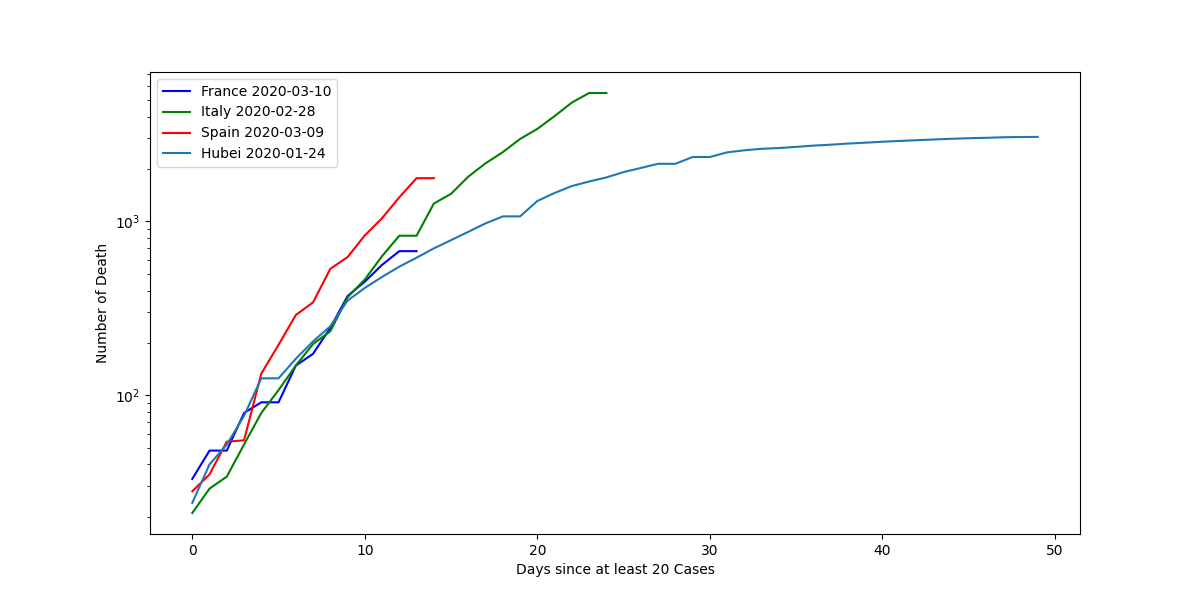
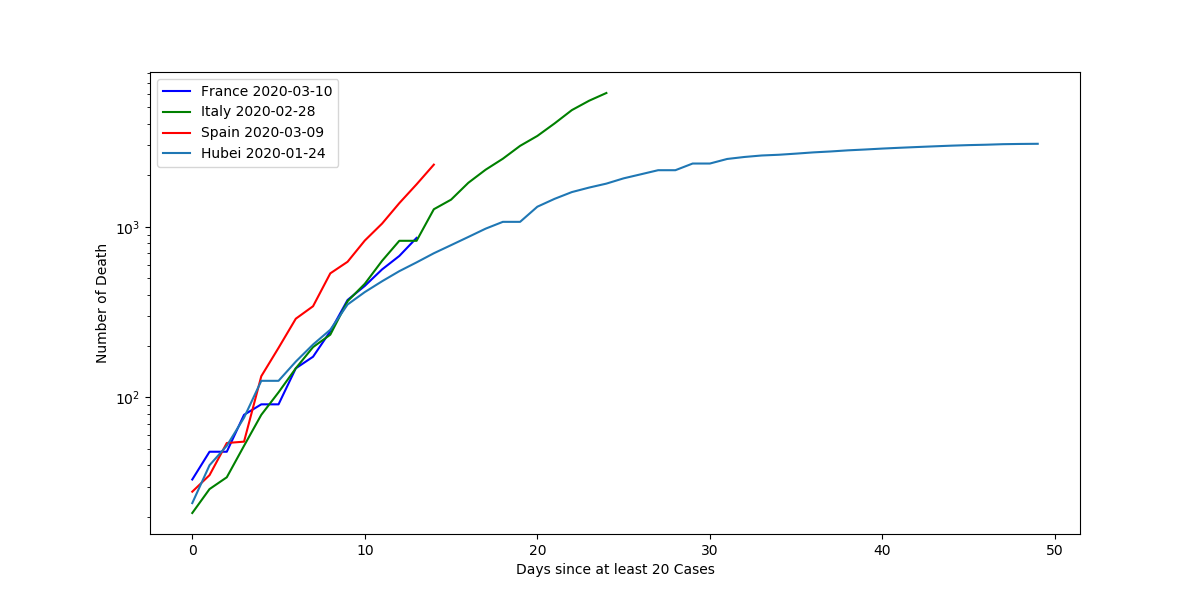
change urls, deprecated fila as today

diff --git a/coronapy.py b/coronapy.py
@@ -10,8 +10,10 @@ import numpy as np
 
 # default urls for specfic cases
 default_urls = {
-'confirmed' : 'https://github.com/CSSEGISandData/COVID-19/raw/master/csse_covid_19_data/csse_covid_19_time_series/time_series_19-covid-Confirmed.csv',
-'death' : 'https://github.com/CSSEGISandData/COVID-19/raw/master/csse_covid_19_data/csse_covid_19_time_series/time_series_19-covid-Deaths.csv',
+#'confirmed' : 'https://github.com/CSSEGISandData/COVID-19/raw/master/csse_covid_19_data/csse_covid_19_time_series/time_series_19-covid-Confirmed.csv',
+'confirmed' : 'https://github.com/CSSEGISandData/COVID-19/raw/master/csse_covid_19_data/csse_covid_19_time_series/time_series_covid19_confirmed_global.csv', 
+#'death' : 'https://github.com/CSSEGISandData/COVID-19/raw/master/csse_covid_19_data/csse_covid_19_time_series/time_series_19-covid-Deaths.csv',
+'death' : 'https://github.com/CSSEGISandData/COVID-19/raw/master/csse_covid_19_data/csse_covid_19_time_series/time_series_covid19_deaths_global.csv',
 'recovered' : 'https://github.com/CSSEGISandData/COVID-19/raw/master/csse_covid_19_data/csse_covid_19_time_series/time_series_19-covid-Recovered.csv',
 }
 

diff --git a/setup.py b/setup.py
@@ -7,7 +7,7 @@ import sys
 from setuptools import setup
 
 name = "coronapy"
-version='0.1.1' # https://www.python.org/dev/peps/pep-0440/
+version='0.1.2' # https://www.python.org/dev/peps/pep-0440/
 url = "https://github.com/SylvainGuieu/corona"
 author='Sylvain Guieu'
 author_email='sylvain.guieu@univ-grenoble-alpes.fr'
